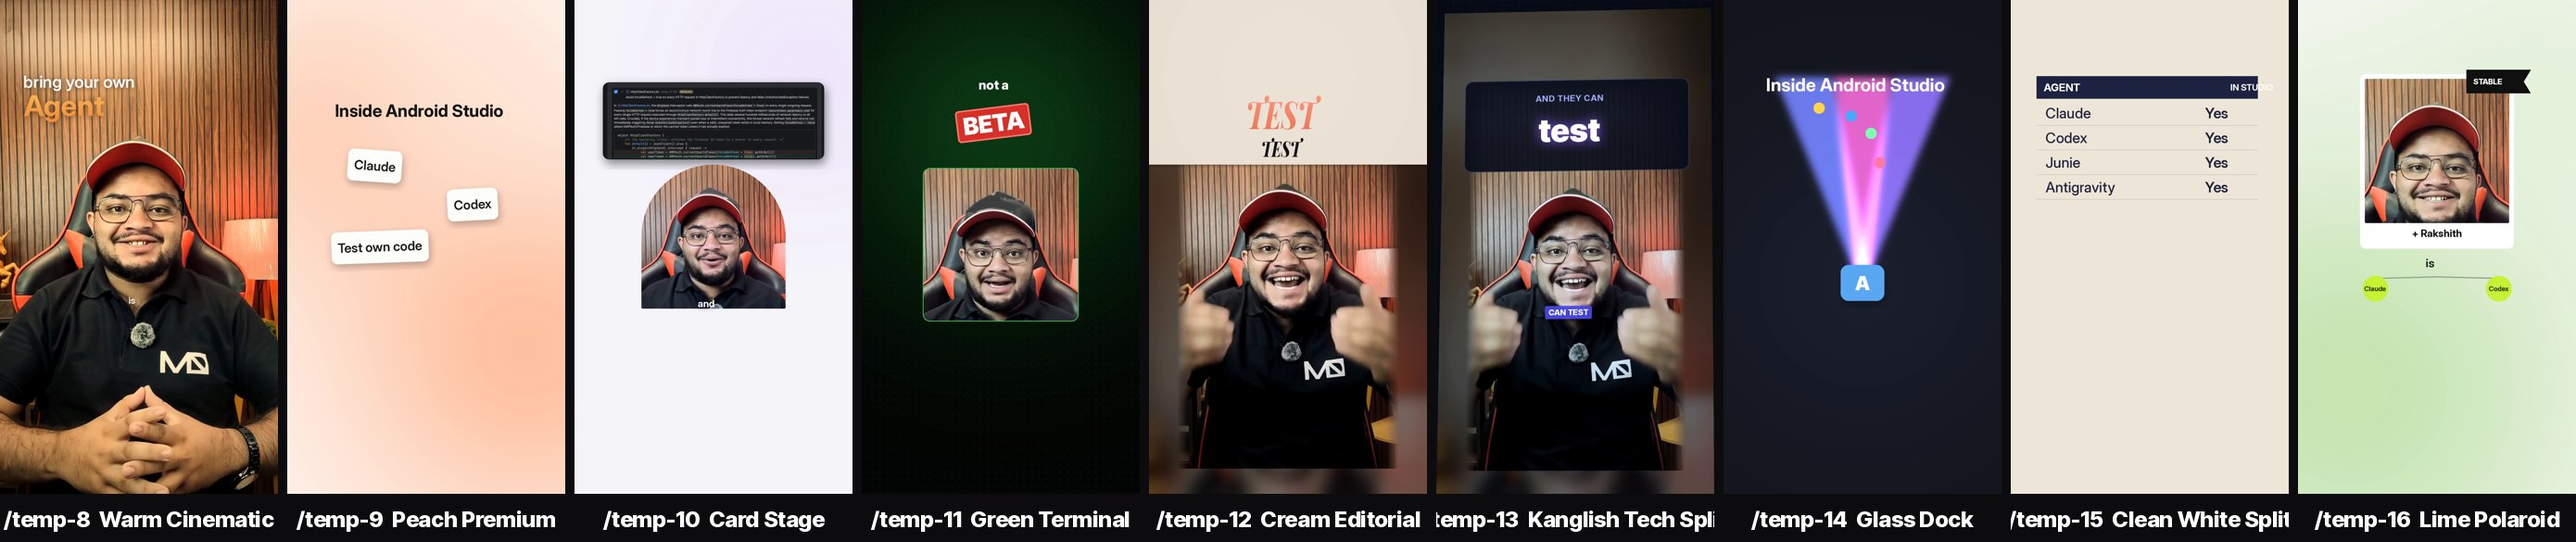
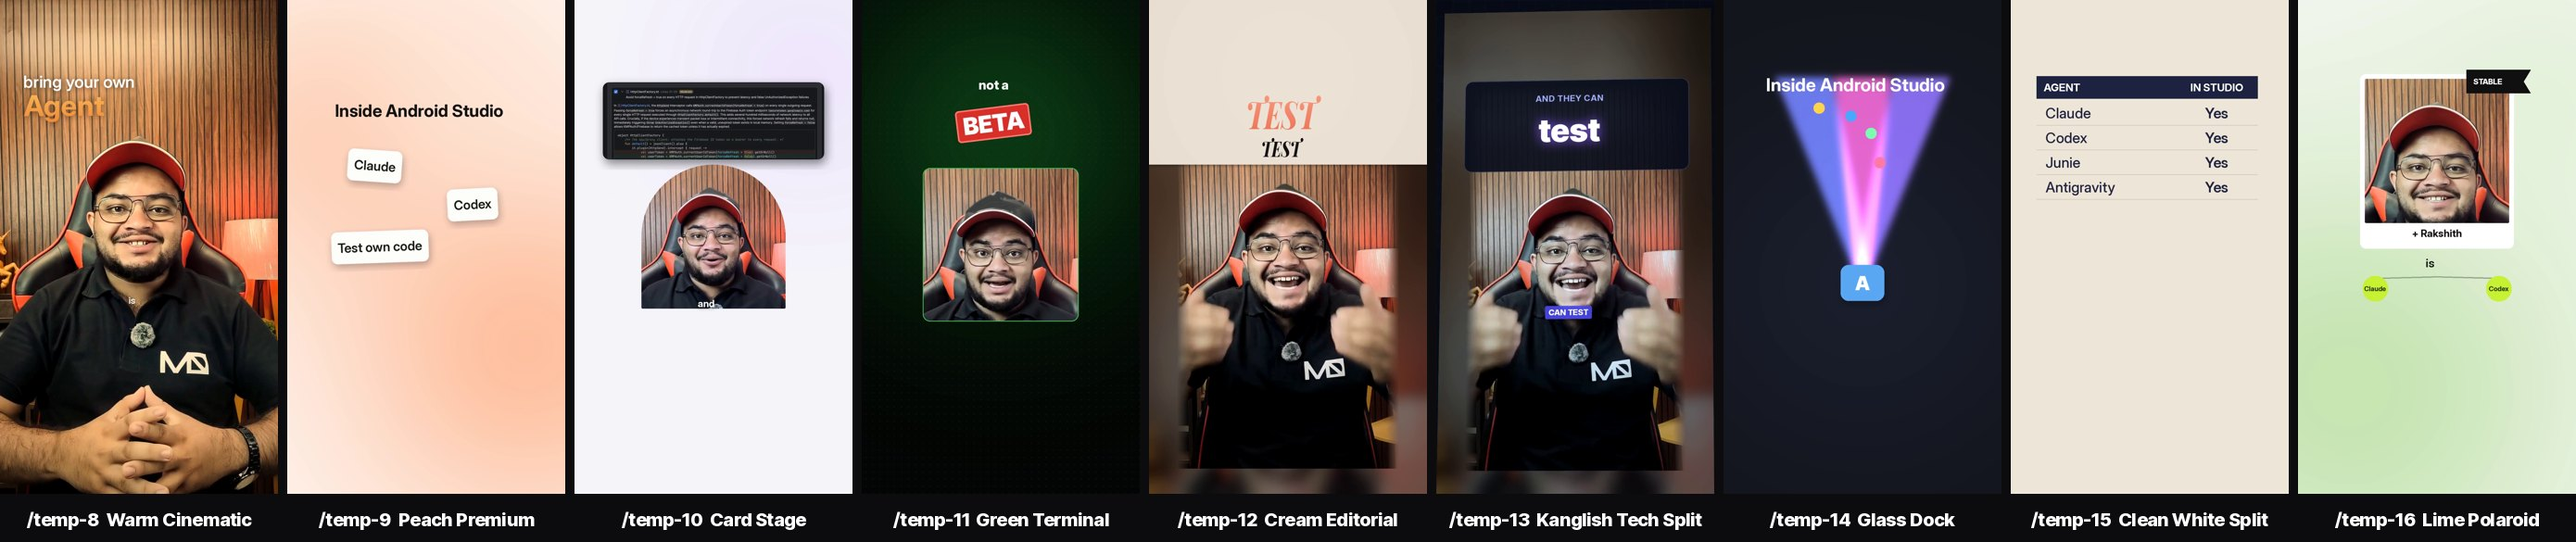
v8.1: temp-15 table header inside the safe zone, outline word guarded, guard lint in doctor, demos 2-7 re-rendered with corrected spellings, strips/previews, skill rebased on saved version
Claude-Session: https://claude.ai/code/session_01QHqc1g2UAVDCsF5EjEd9Yp

Changed region(s): [[0.0, 0.9231, 1.0, 0.9846], [0.8353, 0.1538, 0.8971, 0.1846]]

diff --git a/skill/aiwithrakshith-reel-templates/SKILL.md b/skill/aiwithrakshith-reel-templates/SKILL.md
@@ -1,6 +1,6 @@
 ---
 name: aiwithrakshith-reel-templates
-description: Edit Rakshith's talking-head video into a 60 fps Instagram Reel in one of 16 templates chosen with /temp-1 … /temp-16, with face-clear safe-grid alignment, then file video, thumbnail, caption and timeline Google Docs into Drive Social Media/month/day.
+description: "Edit Rakshith's talking-head video into a 60 fps Instagram Reel in one of 16 templates chosen with /temp-1 … /temp-16 (face-clear, safe-grid aligned), then file video, thumbnail, caption and timeline Google Docs into Drive Social Media/month/day."
 ---
 
 # AI with Rakshith — Reel Templates (/temp-1 … /temp-16)
@@ -12,8 +12,8 @@ The engine is the GitHub repo **rakshithgowdams/reel-engine** (private). The hou
 
 ## 0. Before anything: load memory
 1. Clone/pull the repo; run `./setup.sh --no-model` (fonts, pip, doctor). `python3 tools/doctor.py` must print READY.
-2. Read `memory/CONTEXT.md` (recent reels, blocked hooks, template rotation, lessons). Never repeat a hook from the
-   last 5 reels. If Rakshith corrects something, add it: `python3 tools/memory.py lesson "<his words>"`.
+2. Read `memory/CONTEXT.md` (recent reels, blocked hooks, template rotation, Drive folder IDs, lessons). Never repeat a
+   hook from the last 5 reels. If Rakshith corrects something, add it: `python3 tools/memory.py lesson "<his words>"`.
 
 ## 1. Templates
 | command | name | reference | use it for | hook default |
@@ -34,8 +34,9 @@ The engine is the GitHub repo **rakshithgowdams/reel-engine** (private). The hou
 | `/temp-14` | Glass Dock | t-14 | "N free AI tools" roundups | `halftone_iris` |
 | `/temp-15` | Clean White Split | t-15 | cost comparisons, tool tours | `red_wipe` |
 | `/temp-16` | Lime Polaroid | sezz0283 | agency / founder intros, results | `letterbox_open` |
+
 Full specs: `templates/temp-N/TEMPLATE.md` (generated from `engine/templates.py`, the single source of truth).
-Styles 2-7 live in `engine/template_render.py`, 8-16 in `engine/template_styles_b.py`. Template-specific job keys:
+Styles 2–7 live in `engine/template_render.py`, 8–16 in `engine/template_styles_b.py`. Template-specific job keys:
 `banner` (4), `flash` (7), `hook_until` (2), `tiles` (9), `brand` (10), `stamp` on a headline (11), `stat` scene (11),
 `dock` (14), `rows`/`total`/`result` table scene (15), `polaroid`/`name`/`badge`/`items` scene (16). Always pass `glossary`.
 If the default hook is blocked by memory, pick another from `python3 tools/memory.py suggest --energy <energy>`.
@@ -45,10 +46,12 @@ No `/temp-N` given → suggest one from the topic + `memory.py suggest`, say whi
 - **Canvas** 1080×1920, 60 fps. **Safe box** x 65–960, y 270–1250 for every readable element; centre line x 512.
 - **Bands:** HEAD y 280–430 (labels/headlines above the cap) · FACE cap→chin (nothing, ever) · CAPTION chin+24 → 1245.
 - **Face-clear:** `FaceZone.from_head(cap_top, chin, x0, x1)` + 24 px margin. `Reel.check()` stops the render if any
-  text/card/chip box touches it. Only whole-frame transitions ≤ 0.2 s may pass over the face.
+  text/card/chip box touches it. Only whole-frame transitions ≤ 0.2 s may pass over the face. A guard error is a layout
+  bug: resize/move the element (size it for its PEAK pop scale), never disable the check.
 - **Character:** A-roll moved down `dy` (60 px for his room framing) so cap ≥ 505 and chin ≤ 1100. Split layouts scale him
-  (`fit`: 7 = 0.92, 12/13 = 0.8, 14 = 0.56, 15 = 0.58) or crop him into a card (8 PiP, 10 card/dome, 11 facecam, 16 polaroid);
-  each layout passes its own face zone to the guard. Never crop his face; hands may leave the frame.
+  (`fit`: 7 = 0.92, 12/13 = 0.8, 14 = 0.56, 15 = 0.58) or crop him into a card (8 PiP, 10 card/dome, 11 facecam,
+  16 polaroid); each layout passes its own face zone to the guard. Never crop his face; hands may leave the frame.
+- **Every text layer goes through `self.check()`** — `tools/lint_guard.py` (run by `doctor.py`) fails otherwise.
 - **Text:** max 30 chars per caption line, auto-shrink to 860 px wide; captions appear on the word's start frame,
   never early; one keyword per beat; English video → English, Kannada video → Kanglish headline + English captions.
 - **Pace:** an event every 0.3–0.6 s; scene length per template (/temp-3 fastest ~1.7 s, /temp-4 chapters ~8 s);
@@ -66,27 +69,28 @@ No `/temp-N` given → suggest one from the topic + `memory.py suggest`, say whi
    vo, music (different bed per template), banner (/temp-4), flash (/temp-7), hook_until (/temp-2).
    /temp-1 uses `examples/day4_android_studio/render_day4_60.py` with `HOOK=<name>`.
 5. **Test frames** — `python3 engine/template_render.py job.json 0 0 test/ 6,180,…` and LOOK at them (hook, each scene,
-   each headline, a transition). Fix before the full render.
+   each headline, a transition). Also run every 3rd frame through the guard before the full render.
 6. **Render** — `python3 engine/template_render.py job.json --full reel.mp4` (2 parallel halves + mix + mux).
 7. **QC** — `python3 tools/qc_audit.py reel.mp4 --hook <hook> --out qc_report.md` must PASS (60 fps, codecs,
    −14 LUFS ±1, ≤ −1 dBTP, hook unique). Then `tools/safe_zone_check.py` sheet for a visual pass.
 8. **Package** — `python3 tools/reel_package.py --video reel.mp4 --job job.json --title "<Reel title>" --caption caption.txt
-   --qc qc_report.md --brand <brand> --out pkg/` → video, thumbnail (+ 3:4 grid crop), caption.html, timeline.html.
-   Caption: 4 lines + exactly 5 lowercase hashtags; English for .global, Kannada-English mix for @AIwithRakshith.
+   --qc qc_report.md --brand <brand> --out pkg/` → video, thumbnail (+ 3:4 grid crop), caption.html, timeline.html
+   (timeline includes the QC table). Caption file = only the 4 lines + exactly 5 lowercase hashtags; English for
+   .global, Kannada-English mix for @AIwithRakshith.
 9. **Drive** — `Social Media / YYYY-MM Month / Day DD - YYYY-MM-DD / <Reel title> /`
    - Local machine: `python3 tools/drive_publish.py pkg/` (OAuth once; finds-or-creates folders, Docs conversion).
    - Inside Claude (Google Drive connector): folder IDs are cached in `memory/drive_index.json`; otherwise search each
-     folder by exact title + parent first, create it only if
-     missing (`create_file`, contentMimeType `application/vnd.google-apps.folder`); upload video/thumbnail with
-     `base64Content = sha256:<hex>:<abs path>`; upload caption.html / timeline.html (QC table is inside the timeline) with
-     a file reference (or `textContent`) and contentMimeType `text/html` so they become **Google Docs** — never .txt.
+     folder by exact title + parent first, create it only if missing (`create_file`, contentMimeType
+     `application/vnd.google-apps.folder`); upload video/thumbnail with `base64Content = sha256:<hex>:<abs path>`;
+     upload caption.html / timeline.html with a file reference (or `textContent`) and contentMimeType `text/html` so
+     they become **Google Docs** — never .txt.
    - Connector limits: ~3.1 MB of file per call → thumbnails and Docs fit; the 60 fps video does not. Upload images with
      `disableConversionToGoogleType: true` (otherwise they turn into empty Docs). Send calls one at a time (parallel
      calls hit "Resource has been exhausted"; wait ~20 s and retry). For the video: run `drive_publish.py` on his
      machine, or ask him — never silently upload a downscaled copy instead.
 10. **Memory** — `python3 tools/memory.py log pkg/manifest.json` (drive_publish does it) → rebuilds `memory/CONTEXT.md`;
     commit `memory/` to the repo so every device and every LLM starts with it. Mirror CONTEXT.md to Drive
-    (`drive_publish.py --sync-memory` or the connector) as "Reel Engine — Memory".
+    (`drive_publish.py --sync-memory` or the connector) as the "Reel Engine — Memory" Doc in Social Media.
 11. **Deliver** — send the video + thumbnail, give the Drive folder link and the caption; one line per QC result.
 
 ## 4. Don'ts
@@ -94,4 +98,5 @@ No `/temp-N` given → suggest one from the topic + `memory.py suggest`, say whi
 - Don't reuse a hook from the last 5 reels; don't reuse the same music bed two reels in a row.
 - Don't save captions/timelines as .txt in Drive; don't create a second "Social Media" or month folder.
 - Don't burn the Instagram caption into the video; don't exceed 5 hashtags.
-- Don't ship ASR spellings: pass the reel's `glossary` (verified names) in every job.
+- Don't ship ASR spellings: pass the reel's verified `glossary` in every job (fix_words also merges hyphen splits,
+  e.g. Juni → Junie, Anti -Gravity → Antigravity).

diff --git a/memory/CONTEXT.md b/memory/CONTEXT.md
@@ -1,6 +1,6 @@
 # Reel engine memory (generated — read this before every edit)
 
-Updated 2026-11-21 15:03. Source: memory/content_log.json + memory/lessons.md. Rebuild: `python3 tools/memory.py context`.
+Updated 2026-11-21 15:16. Source: memory/content_log.json + memory/lessons.md. Rebuild: `python3 tools/memory.py context`.
 
 ## Non-negotiables
 - 1080x1920, **60 fps**, H.264 High + AAC 48 kHz, -14 LUFS, true peak <= -1 dBTP.
